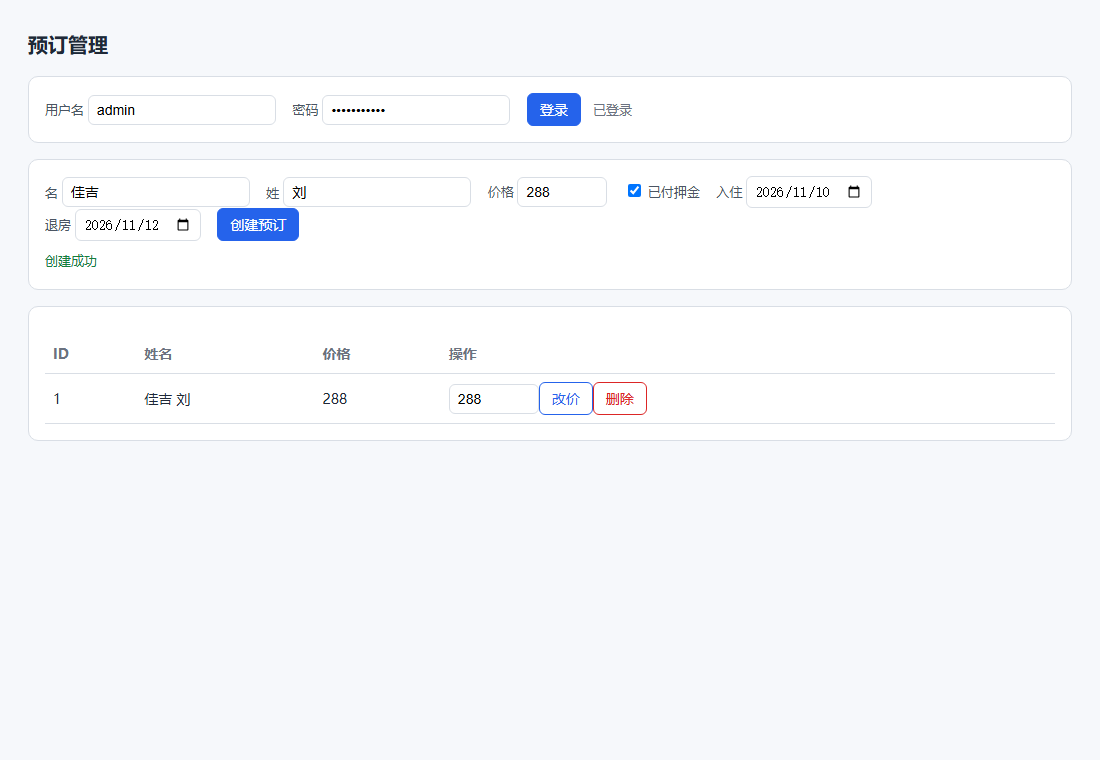
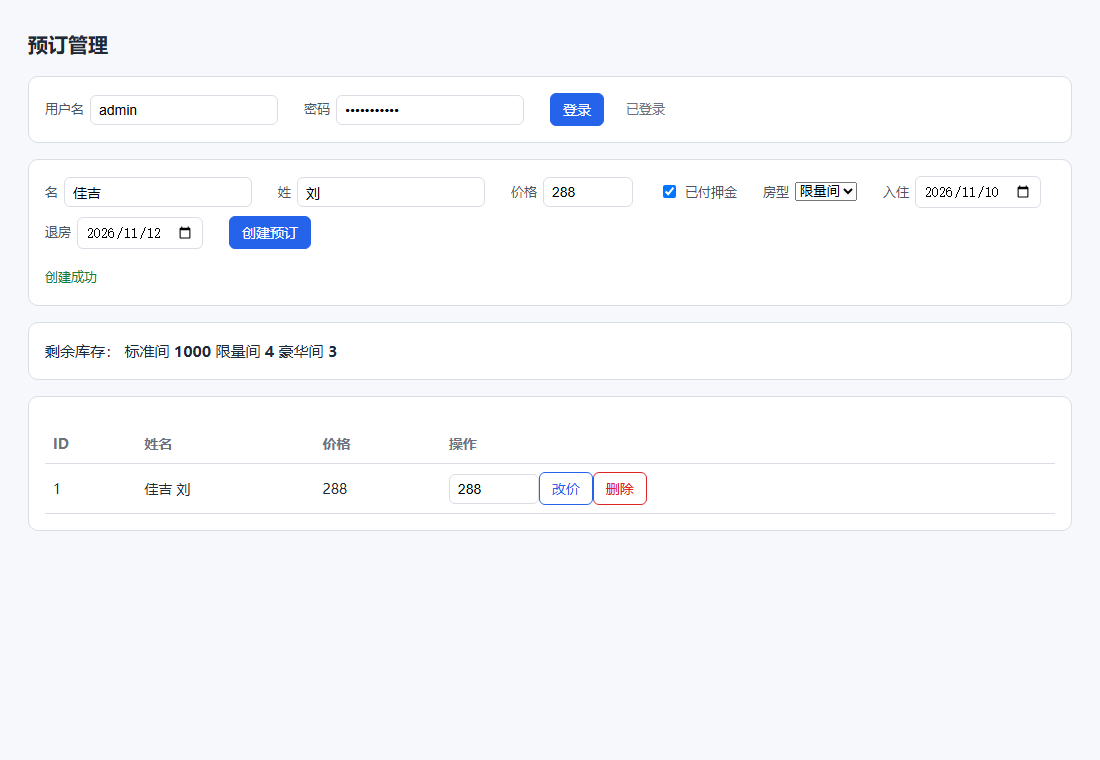
feat: UI 补房型与库存（3 条用例）+ 接入 ruff 静态检查（清掉 2 处真实隐患）
web/index.html：房型下拉、库存面板（/rooms）、创建带 roomtype、失败也刷新库存
ui_tests：新增库存面板 / 限量间扣减 / 售罄提示 3 条（UI 共 9 条）
ruff.toml：只开 E9/F63/F7/F82；修 reports.py 死代码引用、tester_gui.py except 变量闭包（BUG-007）
CI lint 关加 ruff check；README 第 18 节、测试方案与缺陷记录同步（101 条用例）

diff --git a/web/index.html b/web/index.html
@@ -42,10 +42,24 @@
     <label>姓 <input id="lastname" placeholder="刘"></label>
     <label>价格 <input id="totalprice" type="number" value="288"></label>
     <label><input id="depositpaid" type="checkbox" checked> 已付押金</label>
+    <label>房型
+      <select id="roomtype">
+        <option value="standard">标准间</option>
+        <option value="limited">限量间</option>
+        <option value="deluxe">豪华间</option>
+      </select>
+    </label>
     <label>入住 <input id="checkin" type="date" value="2026-11-10"></label>
     <label>退房 <input id="checkout" type="date" value="2026-11-12"></label>
     <button id="create" disabled>创建预订</button>
     <div id="message"></div>
+  </section>
+
+  <section id="stock-panel">
+    <span>剩余库存：</span>
+    <span class="stock-item">标准间 <b id="stock-standard">-</b></span>
+    <span class="stock-item">限量间 <b id="stock-limited">-</b></span>
+    <span class="stock-item">豪华间 <b id="stock-deluxe">-</b></span>
   </section>
 
   <section>
@@ -127,6 +141,18 @@
       }
     }
 
+    async function refreshStock() {
+      try {
+        const stock = await api("/rooms");
+        for (const [room, left] of Object.entries(stock)) {
+          const cell = document.querySelector("#stock-" + room);
+          if (cell) cell.textContent = String(left);
+        }
+      } catch (error) {
+        say(error.message, "error");
+      }
+    }
+
     document.querySelector("#login").addEventListener("click", async () => {
       try {
         const body = JSON.stringify({
@@ -155,12 +181,18 @@
           checkout: document.querySelector("#checkout").value,
         },
       };
+      const roomtype = document.querySelector("#roomtype").value;
       try {
-        await api("/booking", { method: "POST", body: JSON.stringify(payload) });
+        await api("/booking?roomtype=" + encodeURIComponent(roomtype), {
+          method: "POST",
+          body: JSON.stringify(payload),
+        });
         say("创建成功", "ok");
         await refresh();
+        await refreshStock();
       } catch (error) {
         say(error.message, "error");
+        await refreshStock();
       }
     });
 
@@ -179,10 +211,13 @@
           say("已删除", "ok");
         }
         await refresh();
+        await refreshStock();
       } catch (error) {
         say(error.message, "error");
       }
     });
+
+    refreshStock();
   </script>
 </body>
 </html>

diff --git a/ui_tests/test_booking_ui.py b/ui_tests/test_booking_ui.py
@@ -15,6 +15,7 @@
 
 import allure
 import pytest
+import requests
 from playwright.sync_api import expect
 
 pytestmark = [pytest.mark.ui, allure.feature("UI · 预订管理")]
@@ -84,3 +85,33 @@ def test_delete_removes_the_row(page):
     page.locator("#booking-rows tr").first.locator(".delete").click()
     expect(page.locator("#message")).to_have_text("已删除")
     expect(page.locator("#booking-rows tr")).to_have_count(0)
+
+
+def test_stock_panel_shows_initial_stock(page):
+    """库存面板：打开页面就能看到各房型余量（不用登录）。"""
+    expect(page.locator("#stock-limited")).to_have_text("5")
+    expect(page.locator("#stock-deluxe")).to_have_text("3")
+
+
+def test_limited_room_booking_decreases_stock(page):
+    """选限量间下单：库存从 5 变 4 —— 页面把接口算出来的库存也渲染对了。"""
+    login(page)
+    page.select_option("#roomtype", "limited")
+    create_booking(page)
+    expect(page.locator("#booking-rows tr")).to_have_count(1)
+    expect(page.locator("#stock-limited")).to_have_text("4")
+
+
+def test_sold_out_room_shows_error(base_url, auth_headers, page, booking_payload):
+    """限量间卖光后，页面上再下单要看到"售罄"，而不是静默失败。"""
+    for index in range(5):
+        body = {**booking_payload, "firstname": f"占位{index}"}
+        assert requests.post(f"{base_url}/booking?roomtype=limited", json=body,
+                             headers=auth_headers).status_code == 200
+
+    login(page)
+    page.select_option("#roomtype", "limited")
+    create_booking(page)
+    expect(page.locator("#message")).to_contain_text("售罄")
+    expect(page.locator("#stock-limited")).to_have_text("0")
+    expect(page.locator("#booking-rows tr")).to_have_count(5)

diff --git a/reports.py b/reports.py
@@ -188,27 +188,6 @@ def _render_test_html(cases, summary, elapsed, pytest_output):
 <pre>{html.escape(pytest_output[-4000:])}</pre></details>
 </body></html>"""
 
-def _test_main():
-    parser = argparse.ArgumentParser(description="生成可视化测试报告")
-    parser.add_argument("--open", action="store_true", help="生成后用浏览器打开")
-    parser.add_argument("args", nargs="*", help="透传给 pytest 的参数，例如 -k validation")
-    options = parser.parse_args()
-
-    code, elapsed, output = run_pytest(options.args)
-    cases, summary = parse_results()
-    HTML_OUT.write_text(render_html(cases, summary, elapsed, output), encoding="utf-8")
-
-    print(f"用例 {summary['total']} 个：通过 {summary['passed']}，失败 {summary['failed'] + summary['error']}，"
-          f"跳过 {summary['skipped']}，耗时 {elapsed:.2f}s")
-    print(f"报告已生成：{HTML_OUT}")
-
-    if options.open:
-        webbrowser.open(HTML_OUT.as_uri())
-        print("已在浏览器中打开")
-    return code
-
-
-
 
 # ---------------- 体检报告 ----------------
 

diff --git a/tester_gui.py b/tester_gui.py
@@ -92,7 +92,8 @@ class App:
             findings, info, test_result = scanner.collect(target, with_tests=with_tests)
             self.root.after(0, lambda: self._show(findings, info, test_result))
         except Exception as err:  # noqa: BLE001 - 界面不能因为一个坏项目崩掉
-            self.root.after(0, lambda: self._fail(err))
+            # err 在 except 结束时会被删掉，lambda 里要绑到底包参数上，否则回调执行时 NameError
+            self.root.after(0, lambda error=err: self._fail(error))
 
     def _fail(self, err):
         self.btn_scan.config(state="normal")

diff --git a/README.md b/README.md
@@ -1,6 +1,6 @@
 # 软件测试可视化
 
-接口自动化 + UI 自动化练习项目：**pytest + requests + Playwright**，接口 92 个用例、UI 6 个用例，覆盖正常流程、异常边界、并发安全、契约规则、角色越权、分页边界、库存超卖、幂等重放、性能基线、浏览器端主流程，并自带零依赖的指标工具（报告 / 覆盖率 / 性能 / 失败现场留存）。
+接口自动化 + UI 自动化练习项目：**pytest + requests + Playwright**，接口 92 个用例、UI 9 个用例，覆盖正常流程、异常边界、并发安全、契约规则、角色越权、分页边界、库存超卖、幂等重放、性能基线、浏览器端主流程（含房型与库存），并自带零依赖的指标工具（报告 / 覆盖率 / 性能 / 失败现场留存）。
 
 配套文档：**[测试方案](docs/测试方案.md)**（范围 / 策略 / 等价类 / 边界值 / 判定表 / 用例清单）、**[缺陷记录](docs/缺陷记录.md)**（4 个缺陷的完整缺陷单）。
 
@@ -85,7 +85,7 @@ UI 层要另装浏览器，单独跑：
 
 ```
 python -m pytest ui_tests -q
-6 passed in 2.55s
+9 passed in 3.80s
 ```
 
 ## 覆盖了什么
@@ -102,9 +102,9 @@ python -m pytest ui_tests -q
 | 库存 | 下单扣库存、售罄 409、删除退还、10 线程抢 5 间房不超卖 |
 | 幂等 | 同一个 `Idempotency-Key` 重复提交返回同一单；并发 10 线程同 key 只建一单；不带 key 仍是两单 |
 | 并发 | 10 线程并发建 30 条不重号、不丢数据、改不同单子互不干扰、重复删除只成功一次、健康检查延迟 < 200ms |
-| UI | 页面加载、登录解锁创建、创建后列表可见、空名字显示后端错误、改价、删除 |
+| UI | 页面加载、登录解锁创建、创建后列表可见、空名字显示后端错误、改价、删除、房型选择与库存显示、售罄提示 |
 
-**参数化用例**（`@pytest.mark.parametrize`）一个函数覆盖多个边界值，所以 98 个用例其实只用了 80 个测试函数。
+**参数化用例**（`@pytest.mark.parametrize`）一个函数覆盖多个边界值，所以 101 个用例其实只用了 83 个测试函数。
 
 ## 几个值得注意的设计
 
@@ -128,7 +128,8 @@ python -m pytest ui_tests -q
 - [x] 房间库存 + 并发超卖用例
 - [x] 幂等键（重复提交只建一单）
 - [x] 性能基线（并发梯度 + p95/p99 + 阈值判定，零依赖）
-- [x] Playwright UI 层（`ui_tests/`，6 条主流程）
+- [x] Playwright UI 层（`ui_tests/`，9 条主流程，含房型与库存）
+- [x] ruff 静态检查（未定义名字 / 语法错，CI 第 1 关拦截）
 - [x] 失败现场留存（截图 + trace，CI 自动上传 artifact）
 - [x] 测试方案 + 缺陷记录文档（`docs/`）
 - [x] Allure 富报告（Temurin JDK 25 + Allure CLI 2.46.1，本机已装）
@@ -298,6 +299,9 @@ python -m pytest ui_tests -v
 
 用例覆盖：页面加载（未登录时创建按钮禁用）→ 登录解锁 → 创建后列表出现 →
 空名字提交显示后端错误 → 改价生效 → 删除后行消失。
+
+后来又补了**房型与库存**：选「限量间」下单后，页面顶部的余量从 5 变 4；卖光后再点创建，
+页面直接显示「limited 房间已售罄」——UI 用例现在也能证明"前端真的把库存算对了"。
 
 **两个关键写法**
 
@@ -482,7 +486,27 @@ CI 里用 `actions/cache` 把 `allure-history` 存下来（key 用 `run_id`，`r
 
 `生成Allure报告.bat` 也已经改成调用 `allure_run.py`，双击即可。
 
-## 这个项目自己发现过六个问题
+### 18. 静态检查（ruff）
+
+`compileall` 只能发现语法错，管不了"名字写错了、变量没定义"。加一层 ruff：
+
+```bash
+pip install ruff
+ruff check .
+```
+
+配置（`ruff.toml`）只开 `E9 / F63 / F7 / F82` 四组规则——语法错、未定义名字、无效比较、重复定义。
+不启风格规则，因为这里的目标是"发现 bug"，不是"统一空格"。
+
+**接入第一天就抓到两个真问题**：
+
+1. `reports.py` 里有一段重构后遗留的死代码，引用着已经改名的 `HTML_OUT` / `render_html`；
+2. `tester_gui.py` 的异常回调写成 `lambda: self._fail(err)`——`err` 在 `except` 块结束后会被删除，
+   回调真正执行时必然 `NameError`。
+
+两个都不是风格问题，是"不跑不知道、跑了才炸"的问题。CI 第 1 关现在会跑 `ruff check .`，这类问题进不了主干。
+
+## 这个项目自己发现过七个问题
 
 写完数据驱动用例后，**测试立刻抓到 mock 服务的两个真实缺陷**：
 
@@ -499,6 +523,8 @@ CI 里用 `actions/cache` 把 `allure-history` 存下来（key 用 `run_id`，`r
 补用例 → 变红 → 加一行范围校验 → 变绿（详细过程见 `docs/缺陷记录.md` 的 BUG-004）。
 
 第五、六个问题是升级业务模型时撞出来的：**viewer 能删数据**（越权）和**10 人抢 5 间房卖出 9 间**（超卖）。前者是"校验写漏了一个接口"，后者是"锁只加了一半"，都是真实项目里最常见的两类错。
+
+第七个是 ruff 静态检查抓的：`tester_gui.py` 里异常回调 `lambda: self._fail(err)` 捕获的是 `except` 块结束就失效的变量，真出错时反而抛 `NameError`，把原始错误盖住了。
 
 **这就是测试的价值**——不是"证明代码是对的"，是"在它错的时候立刻知道"。
 

diff --git a/docs/测试方案.md b/docs/测试方案.md
@@ -56,7 +56,7 @@
 
 | 层 | 手段 | 文件 | 用例数 | 什么时候跑 |
 |---|---|---|---|---|
-| 1 静态检查 | `compileall` + 自研 `scanner.py` | — | — | 每次提交（CI 第 1 关） |
+| 1 静态检查 | `compileall` + `scanner.py` + `ruff check` | — | — | 每次提交（CI 第 1 关） |
 | 2 冒烟 | `pytest -m smoke` | `tests/test_smoke.py` | 4 | 每次提交（CI 第 2 关） |
 | 3 接口功能 | pytest + requests | `test_health/auth/crud/validation` | 38 | 每次提交（CI 第 3 关） |
 | 4 数据驱动 | 用例数据外置到 JSON | `test_data_driven.py` | 7 | 同上 |
@@ -66,10 +66,10 @@
 | 8 库存 | 扣减 / 售罄 / 并发超卖 | `test_inventory.py` | 5 | 同上 |
 | 9 幂等 | 同一 Idempotency-Key 重复与并发提交 | `test_idempotency.py` | 5 | 同上 |
 | 10 并发 | 线程池打接口 | `test_concurrency.py` | 6 | 同上 |
-| 11 UI | Playwright 点页面 | `ui_tests/test_booking_ui.py` | 6 | CI 第 4 关 / 本机手动 |
+| 11 UI | Playwright 点页面 | `ui_tests/test_booking_ui.py` | 9 | CI 第 4 关 / 本机手动 |
 | — 专项 | 性能基线（并发梯度 p95/p99） | `perf_load.py` | — | CI 附加关（不阻断） |
 
-合计 **98 个用例**：接口侧 92 个（89 执行 + 3 个模板跳过）、UI 侧 6 个。
+合计 **101 个用例**：接口侧 92 个（89 执行 + 3 个模板跳过）、UI 侧 9 个。
 
 **为什么这么分**：越往下越便宜、反馈越快。静态检查 1 秒内跑完，能拦语法错；冒烟 0.5 秒，能拦服务挂；全量 3 秒；UI 层 3 秒但要浏览器。CI 里按这个顺序阻断，前面挂了就不浪费后面的时间。
 
@@ -251,7 +251,7 @@
 | TC-IDEM-04 | 不带 key 提交两次 | 两单（保持老行为） |
 | TC-IDEM-05 | 10 线程同 key 并发 | 只建 1 单，10 个响应同一个 id |
 
-### 5.11 UI（6）
+### 5.11 UI（9）
 
 | 编号 | 场景 | 期望 |
 |---|---|---|
@@ -261,6 +261,9 @@
 | TC-UI-04 | 名字留空提交 | 页面展示后端错误"firstname 不能为空"，列表不新增 |
 | TC-UI-05 | 改价 | 行内价格更新为 500 |
 | TC-UI-06 | 删除 | 该行消失，列表回到空 |
+| TC-UI-07 | 打开页面看库存面板 | 限量间 5、豪华间 3 |
+| TC-UI-08 | 选限量间下单 | 列表出现该行，库存变 4 |
+| TC-UI-09 | 卖光后再下单 | 页面显示"售罄"，库存 0，列表 5 条 |
 
 ## 6. 环境与数据
 

diff --git a/docs/缺陷记录.md b/docs/缺陷记录.md
@@ -275,6 +275,37 @@ def reserve(self, roomtype):
 
 ---
 
+## BUG-007 异常回调引用了 except 块外已失效的变量
+
+| 项 | 内容 |
+|---|---|
+| 编号 | BUG-007 |
+| 模块 | `tester_gui.py` 扫描线程的异常处理 |
+| 发现方式 | ruff 静态检查（F821 未定义名字） |
+| 严重 / 优先级 | S3 一般 / P1 |
+| 状态 | 已修复 |
+
+**复现步骤**：在体检器里选一个不存在的目录（或让扫描过程抛异常），触发 `_scan_worker` 的 `except` 分支。
+
+**期望**：界面提示"扫描失败：xxx"。
+**实际**：回调执行时抛 `NameError: name 'err' is not defined`，原始错误被盖住。
+
+**根因**：`lambda: self._fail(err)` 捕获的是变量名，而 Python 3 在 `except` 块结束时会把 `err` 删除；
+`root.after(0, ...)` 是异步调度，等回调真正执行时变量已经没了。
+
+**修复**：把值绑成默认参数，创建 lambda 时就把引用固定住：
+
+```python
+self.root.after(0, lambda error=err: self._fail(error))
+```
+
+**回归验证**：`ruff check .` 从 6 个问题降到 0；手动构造一次失败扫描，界面正常显示失败原因。
+
+**经验**：linter 能发现"这个名字此刻不存在"，但"闭包捕获了会失效的变量"这种时序问题，
+还得靠熟悉 Python 的 `except` 作用域规则——工具和语言知识要互补。
+
+---
+
 ## 缺陷统计
 
 | 来源 | 数量 | 说明 |
@@ -283,14 +314,14 @@ def reserve(self, roomtype):
 | 测试设计方法（等价类） | 1 | BUG-004（表格里空了一格 → 补用例 → 抓到缺陷） |
 | 代码审查（并发用例引出） | 1 | BUG-003（难复现，但结构错误） |
 | 新增业务模型的用例 | 2 | BUG-005（越权）、BUG-006（超卖） |
-| 合计 | 6 | 全部已修复并回归 |
+| 静态检查（ruff） | 1 | BUG-007（闭包捕获失效变量） |
+| 合计 | 7 | 全部已修复并回归 |
 
 | 严重级别 | 数量 |
 |---|---|
 | S1 阻断 | 1 |
 | S2 严重 | 2 |
-| S3 一般 | 2 |
-| S4 轻微 | 1 |
+| S3 一般 | 3 |
 | S4 轻微 | 1 |
 
 **这组数字说明的事**：2/4 的缺陷是自动化用例抓的，1/4 是测试设计方法逼出来的，1/4 是代码审查发现的。
